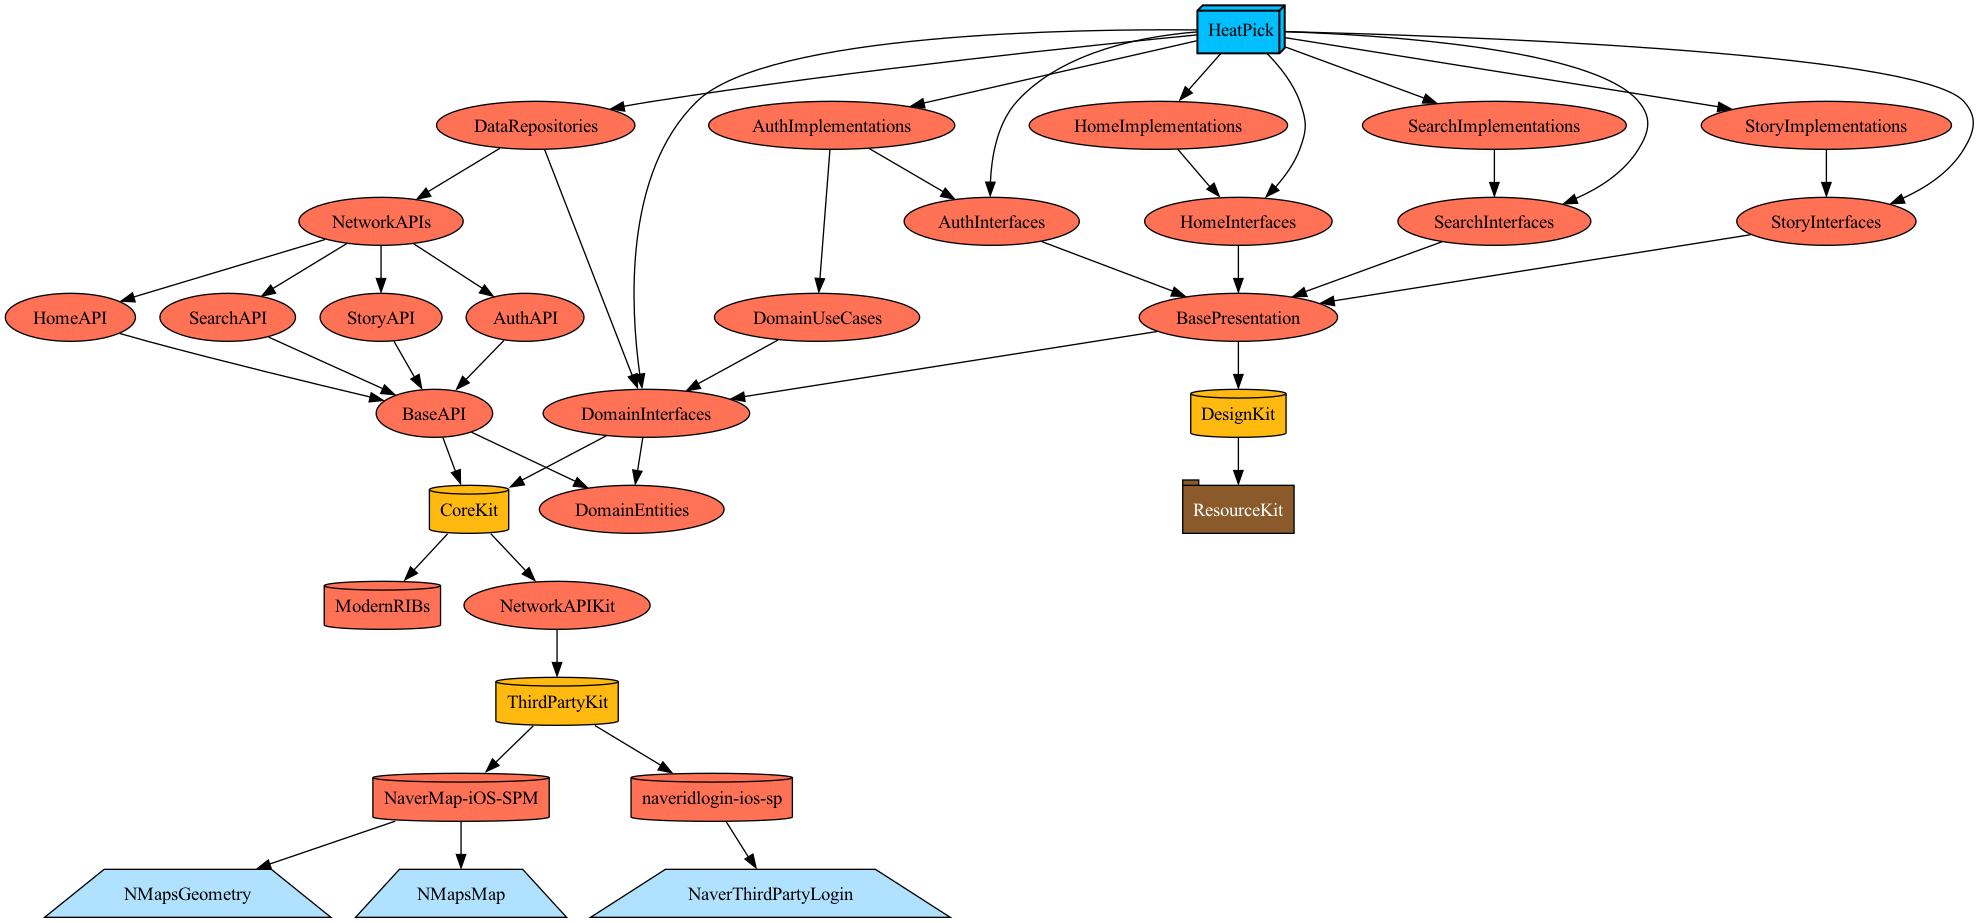
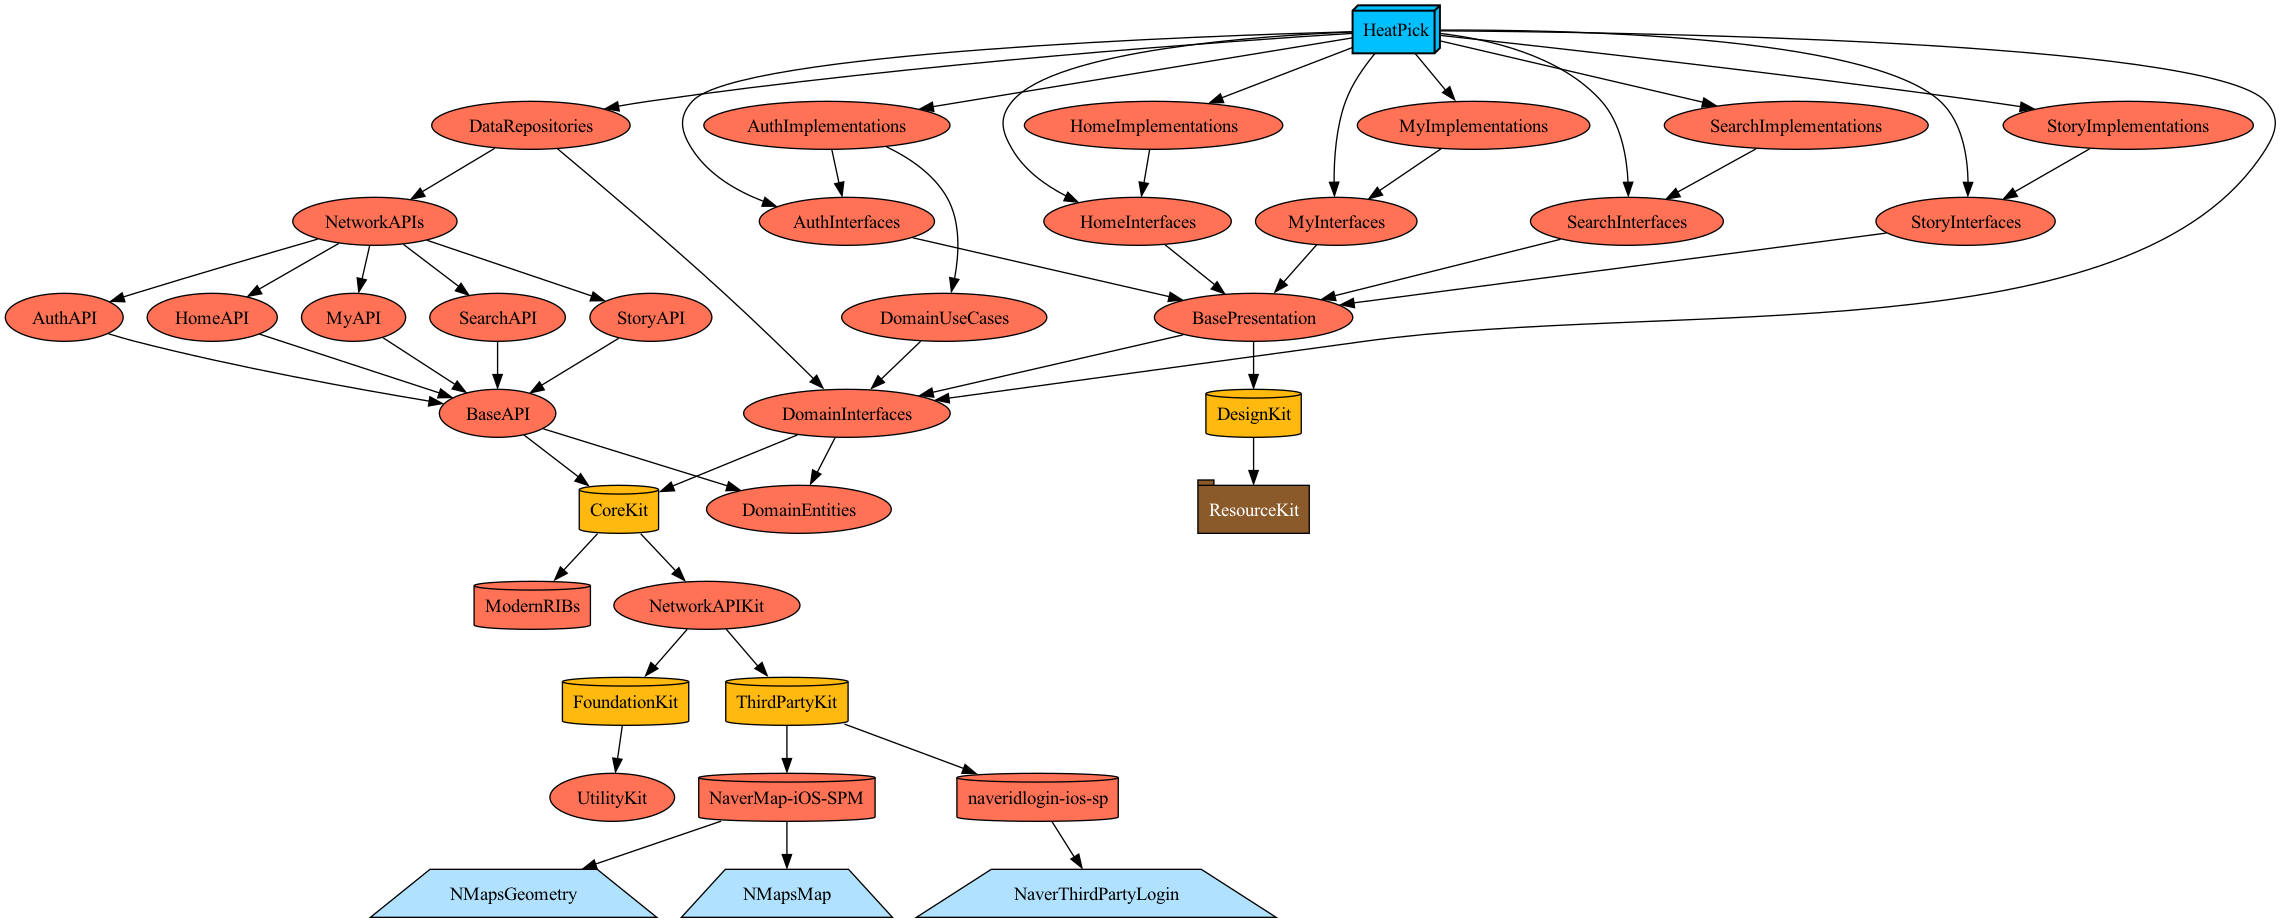
package: FoundationKit (UtilityKit) 추가

diff --git a/client/Plugins/UtilityPlugin/ProjectDescriptionHelpers/Dependency+Project.swift b/client/Plugins/UtilityPlugin/ProjectDescriptionHelpers/Dependency+Project.swift
@@ -27,6 +27,7 @@ extension TargetDependency {
         
         public struct Core {
             public struct Network {}
+            public struct Foundation {}
         }
         
         public struct DesignSystem {}
@@ -55,6 +56,16 @@ public extension TargetDependency.Target.Core {
     }
     static let CoreKit = project(name: "CoreKit")
     static let ThirdPartyKit = project(name: "ThirdPartyKit")
+    static let FoundationKit = project(name: "FoundationKit")
+}
+
+// MARK: - Core + Foundation
+
+public extension TargetDependency.Target.Core.Foundation {
+    static let UtilityKit: TargetDependency = .project(
+        target: "UtilityKit",
+        path: .relativeToRoot("Targets/Core/FoundationKit/UtilityKit")
+    )
 }
 
 // MARK: - Core + Network

diff --git a/client/Targets/Core/FoundationKit/Project.swift b/client/Targets/Core/FoundationKit/Project.swift
@@ -3,9 +3,9 @@ import ProjectDescriptionHelpers
 import UtilityPlugin
 
 let proejct = Project.framework(
-    name: "NetworkAPIKit",
+    name: "FoundationKit",
+    featureTargets: [.framework],
     dependencies: [
-        .Target.Core.ThirdPartyKit,
-        .Target.Core.FoundationKit
+        .Target.Core.Foundation.UtilityKit
     ]
 )

diff --git a/client/Targets/Core/FoundationKit/UtilityKit/Project.swift b/client/Targets/Core/FoundationKit/UtilityKit/Project.swift
@@ -1,0 +1,8 @@
+import ProjectDescription
+import ProjectDescriptionHelpers
+import UtilityPlugin
+
+let proejct = Project.framework(
+    name: "UtilityKit",
+    dependencies: []
+)

diff --git a/client/Targets/Core/FoundationKit/Resources/dummy.swift b/client/Targets/Core/FoundationKit/Resources/dummy.swift
@@ -1,0 +1,2 @@
+import Foundation
+

diff --git a/client/Targets/Core/FoundationKit/Sources/dummy.swift b/client/Targets/Core/FoundationKit/Sources/dummy.swift
@@ -1,0 +1,2 @@
+import Foundation
+

diff --git a/client/Targets/Core/FoundationKit/UtilityKit/Sources/dummy.swift b/client/Targets/Core/FoundationKit/UtilityKit/Sources/dummy.swift
@@ -1,0 +1,2 @@
+import Foundation
+
